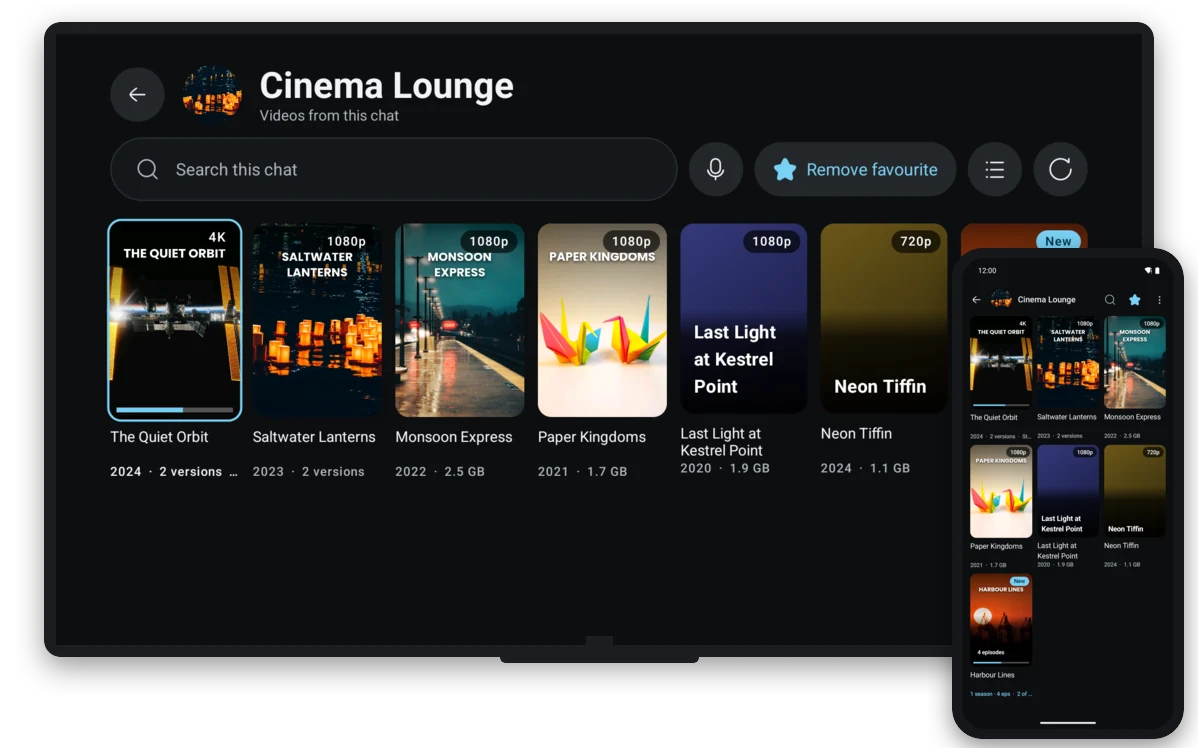
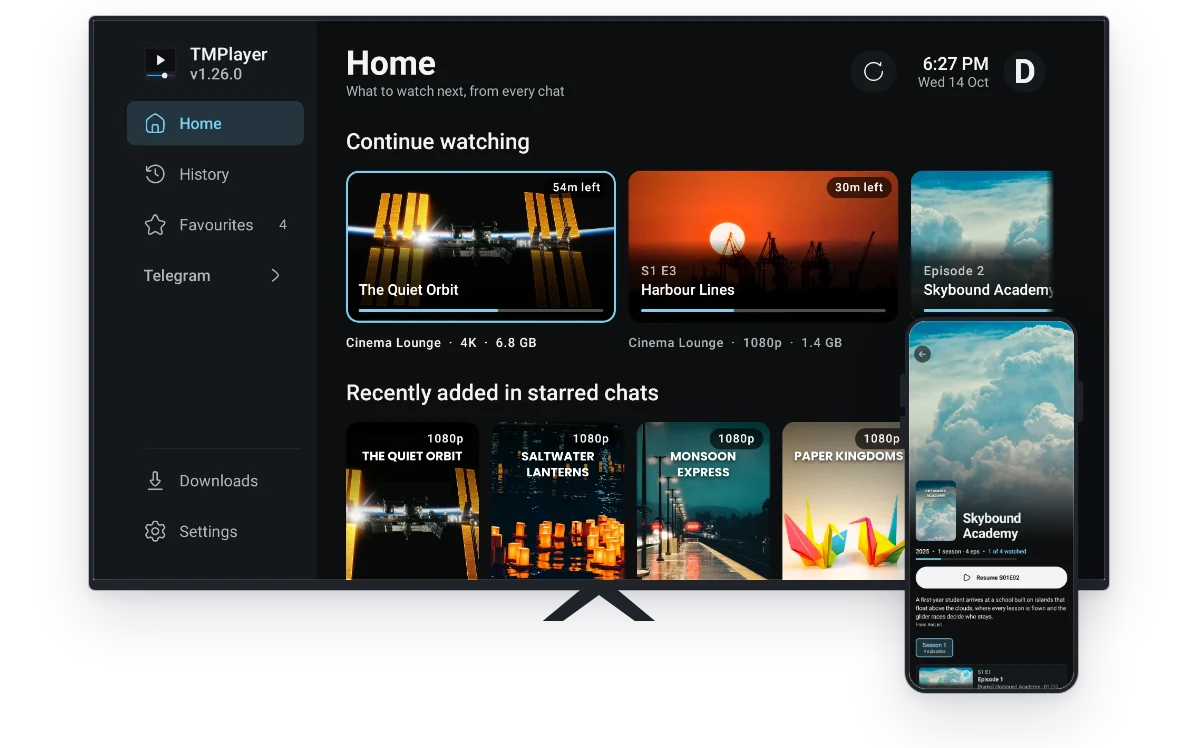
docs: the README picture and the social card rebuilt from the new TV Home and phone shots
devices.webp now has a source of its own, scripts/devices-card.html: the hero's showcase with the
dark shots, rendered the way the social card is.

diff --git a/scripts/devices-card.html b/scripts/devices-card.html
@@ -1,0 +1,35 @@
+<!doctype html>
+<!--
+  Source of docs/screenshots/devices.webp, the README's picture of the TV and the phone together. It
+  is the home page hero's showcase on its own, from the site's stylesheet, with the dark shots in
+  the light theme's frames on a transparent page. Render it the way scripts/render-brand.sh renders
+  og-card.html, over a local web server at the repository root, then convert to WebP at quality 88:
+
+    chromium-browser --headless=new --disable-gpu --no-sandbox --hide-scrollbars \
+      --force-device-scale-factor=1 --force-prefers-reduced-motion --window-size=1198,748 \
+      --default-background-color=00000000 --virtual-time-budget=6000 \
+      --screenshot=devices.png http://127.0.0.1:8719/scripts/devices-card.html
+-->
+<html lang="en" data-theme="light">
+<head>
+<meta charset="utf-8">
+<link rel="stylesheet" href="../site/styles.css">
+<style>
+  html, body { width: 1198px; height: 748px; overflow: hidden; background: transparent; margin: 0; }
+  body::before, body::after { display: none; }
+  .showcase { position: absolute; left: 89px; top: 16px; width: 1020px; }
+</style>
+</head>
+<body>
+  <figure class="showcase">
+    <div class="device device-tv">
+      <div class="screen"><img src="../site/screenshots/tv-home.webp" alt=""></div>
+      <div class="stand"></div>
+      <div class="foot"></div>
+    </div>
+    <div class="device device-phone">
+      <div class="screen"><img src="../site/screenshots/phone-show.webp" alt=""></div>
+    </div>
+  </figure>
+</body>
+</html>
